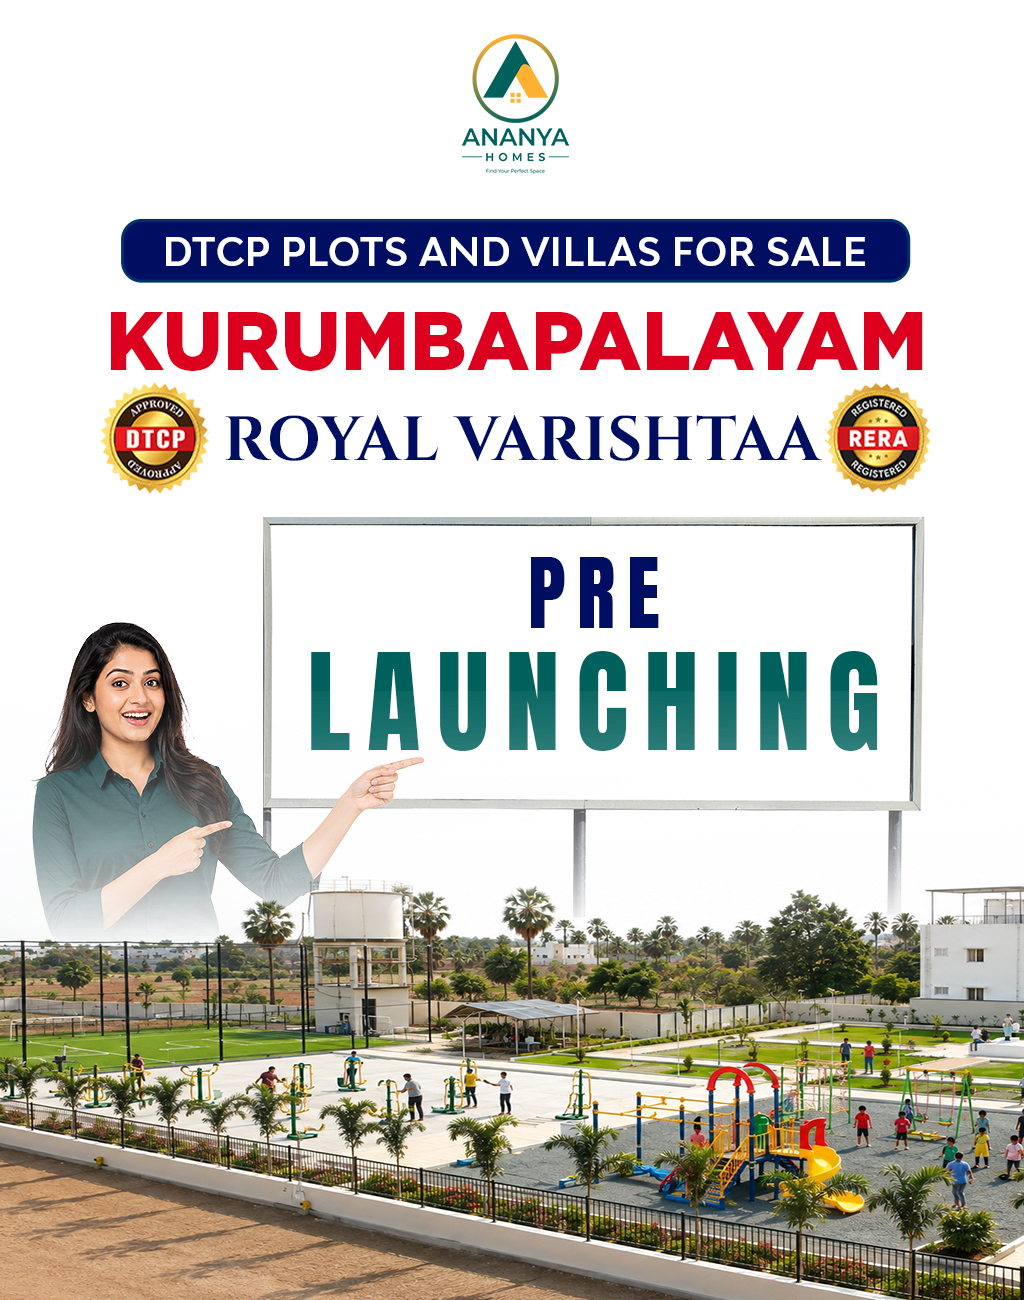
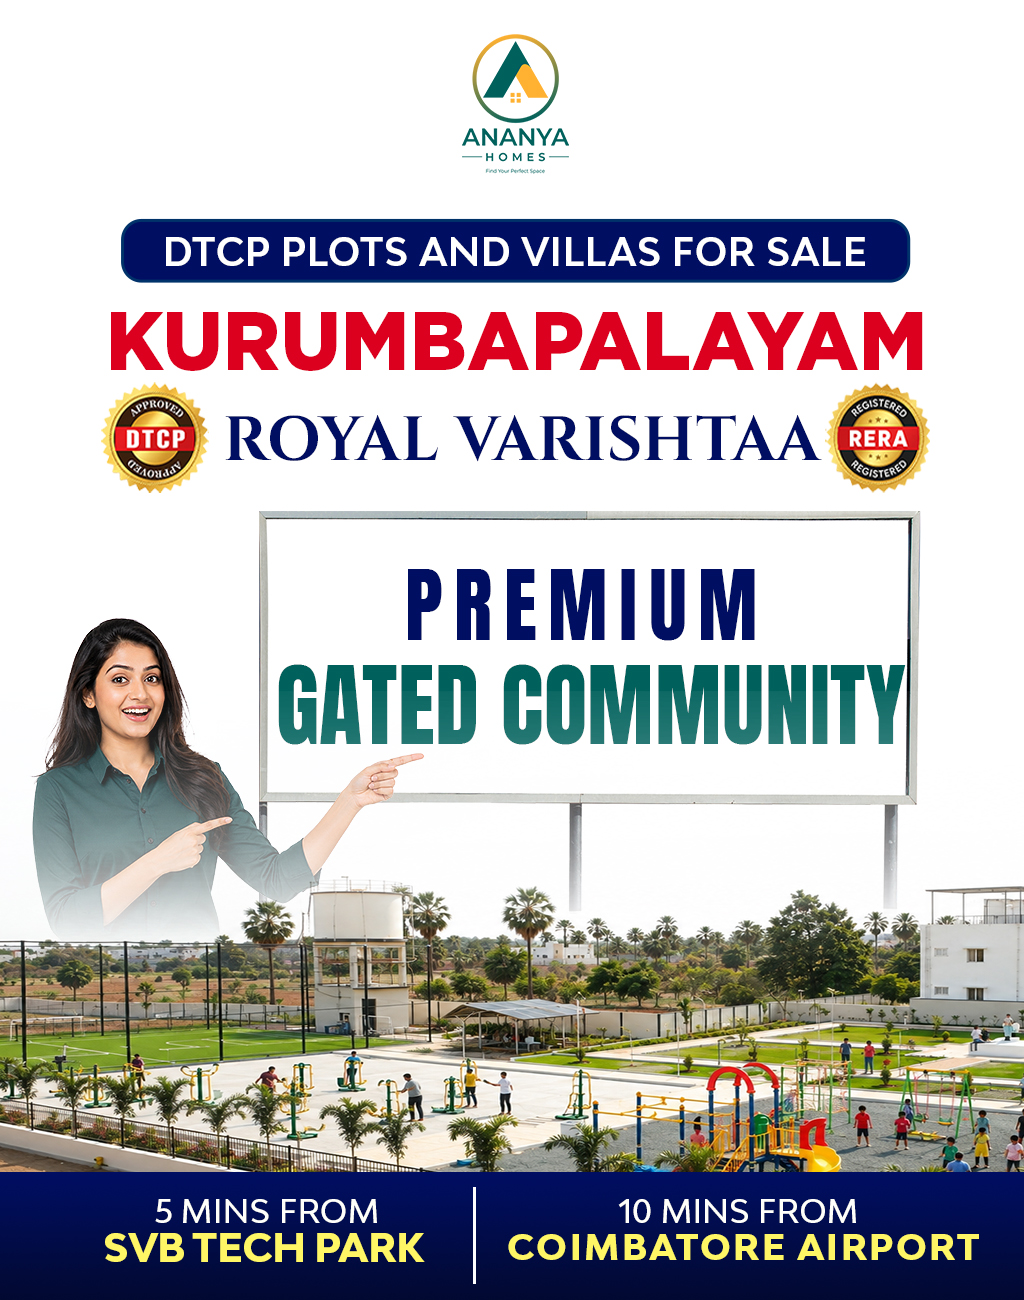
image change and content change

Changed region(s): [[0.0312, 0.3692, 0.9062, 0.7077], [0.0, 0.8923, 1.0, 1.0]]

diff --git a/src/components/HeroBanner.jsx b/src/components/HeroBanner.jsx
@@ -81,10 +81,7 @@ export const HeroBanner = ({ onFormSuccess, onOpenEnquiry }) => {
         <div className="hero-enquiry-overlay-wrapper">
           <div className="hero-enquiry-box font-poppins">
             <div className="enquiry-box-header">
-              <div className="enquiry-badge">
-                <Sparkles size={13} className="text-gold" />
-                <span>DIRECT BUILDER PRIVILEGE</span>
-              </div>
+
               <h3 className="enquiry-title">Enquire Now</h3>
               <p className="enquiry-subtitle">Have an enquiry? Share your details with us, and our team will get in touch with you shortly.</p>
             </div>
@@ -141,7 +138,7 @@ export const HeroBanner = ({ onFormSuccess, onOpenEnquiry }) => {
                 </div>
 
                 <button type="submit" className="enquiry-submit" disabled={isSubmitting}>
-                  <span>{isSubmitting ? 'SENDING...' : 'SENT ENQUIRY'}</span>
+                  <span>{isSubmitting ? 'SENDING...' : 'SEND ENQUIRY'}</span>
                   <Send size={15} />
                 </button>
 
@@ -155,10 +152,7 @@ export const HeroBanner = ({ onFormSuccess, onOpenEnquiry }) => {
       <div className="hero-mobile-enquiry-section">
         <div className="hero-enquiry-box font-poppins mobile-card-hero">
           <div className="enquiry-box-header">
-            <div className="enquiry-badge">
-              <Sparkles size={13} className="text-gold" />
-              <span>DIRECT BUILDER PRIVILEGE</span>
-            </div>
+
             <h3 className="enquiry-title">Enquire Now</h3>
             <p className="enquiry-subtitle">Have an enquiry? Share your details with us, and our team will get in touch with you shortly.</p>
           </div>
@@ -215,7 +209,7 @@ export const HeroBanner = ({ onFormSuccess, onOpenEnquiry }) => {
               </div>
 
               <button type="submit" className="enquiry-submit" disabled={isSubmitting}>
-                <span>{isSubmitting ? 'SENDING...' : 'SENT ENQUIRY'}</span>
+                <span>{isSubmitting ? 'SENDING...' : 'SEND ENQUIRY'}</span>
                 <Send size={15} />
               </button>
             </form>

diff --git a/src/components/EnquiryModal.jsx b/src/components/EnquiryModal.jsx
@@ -111,7 +111,6 @@ export const EnquiryModal = ({ isOpen, onClose, initialData = {} }) => {
         ) : (
           <div className="modal-form-view">
             <div className="modal-header">
-              <span className="modal-badge">{projectInfo.name} • VIP Registration</span>
               <h3 className="modal-title">
                 {initialData?.mode === 'brochure' ? 'Download Project Brochure' : 'Enquire Now'}
               </h3>
